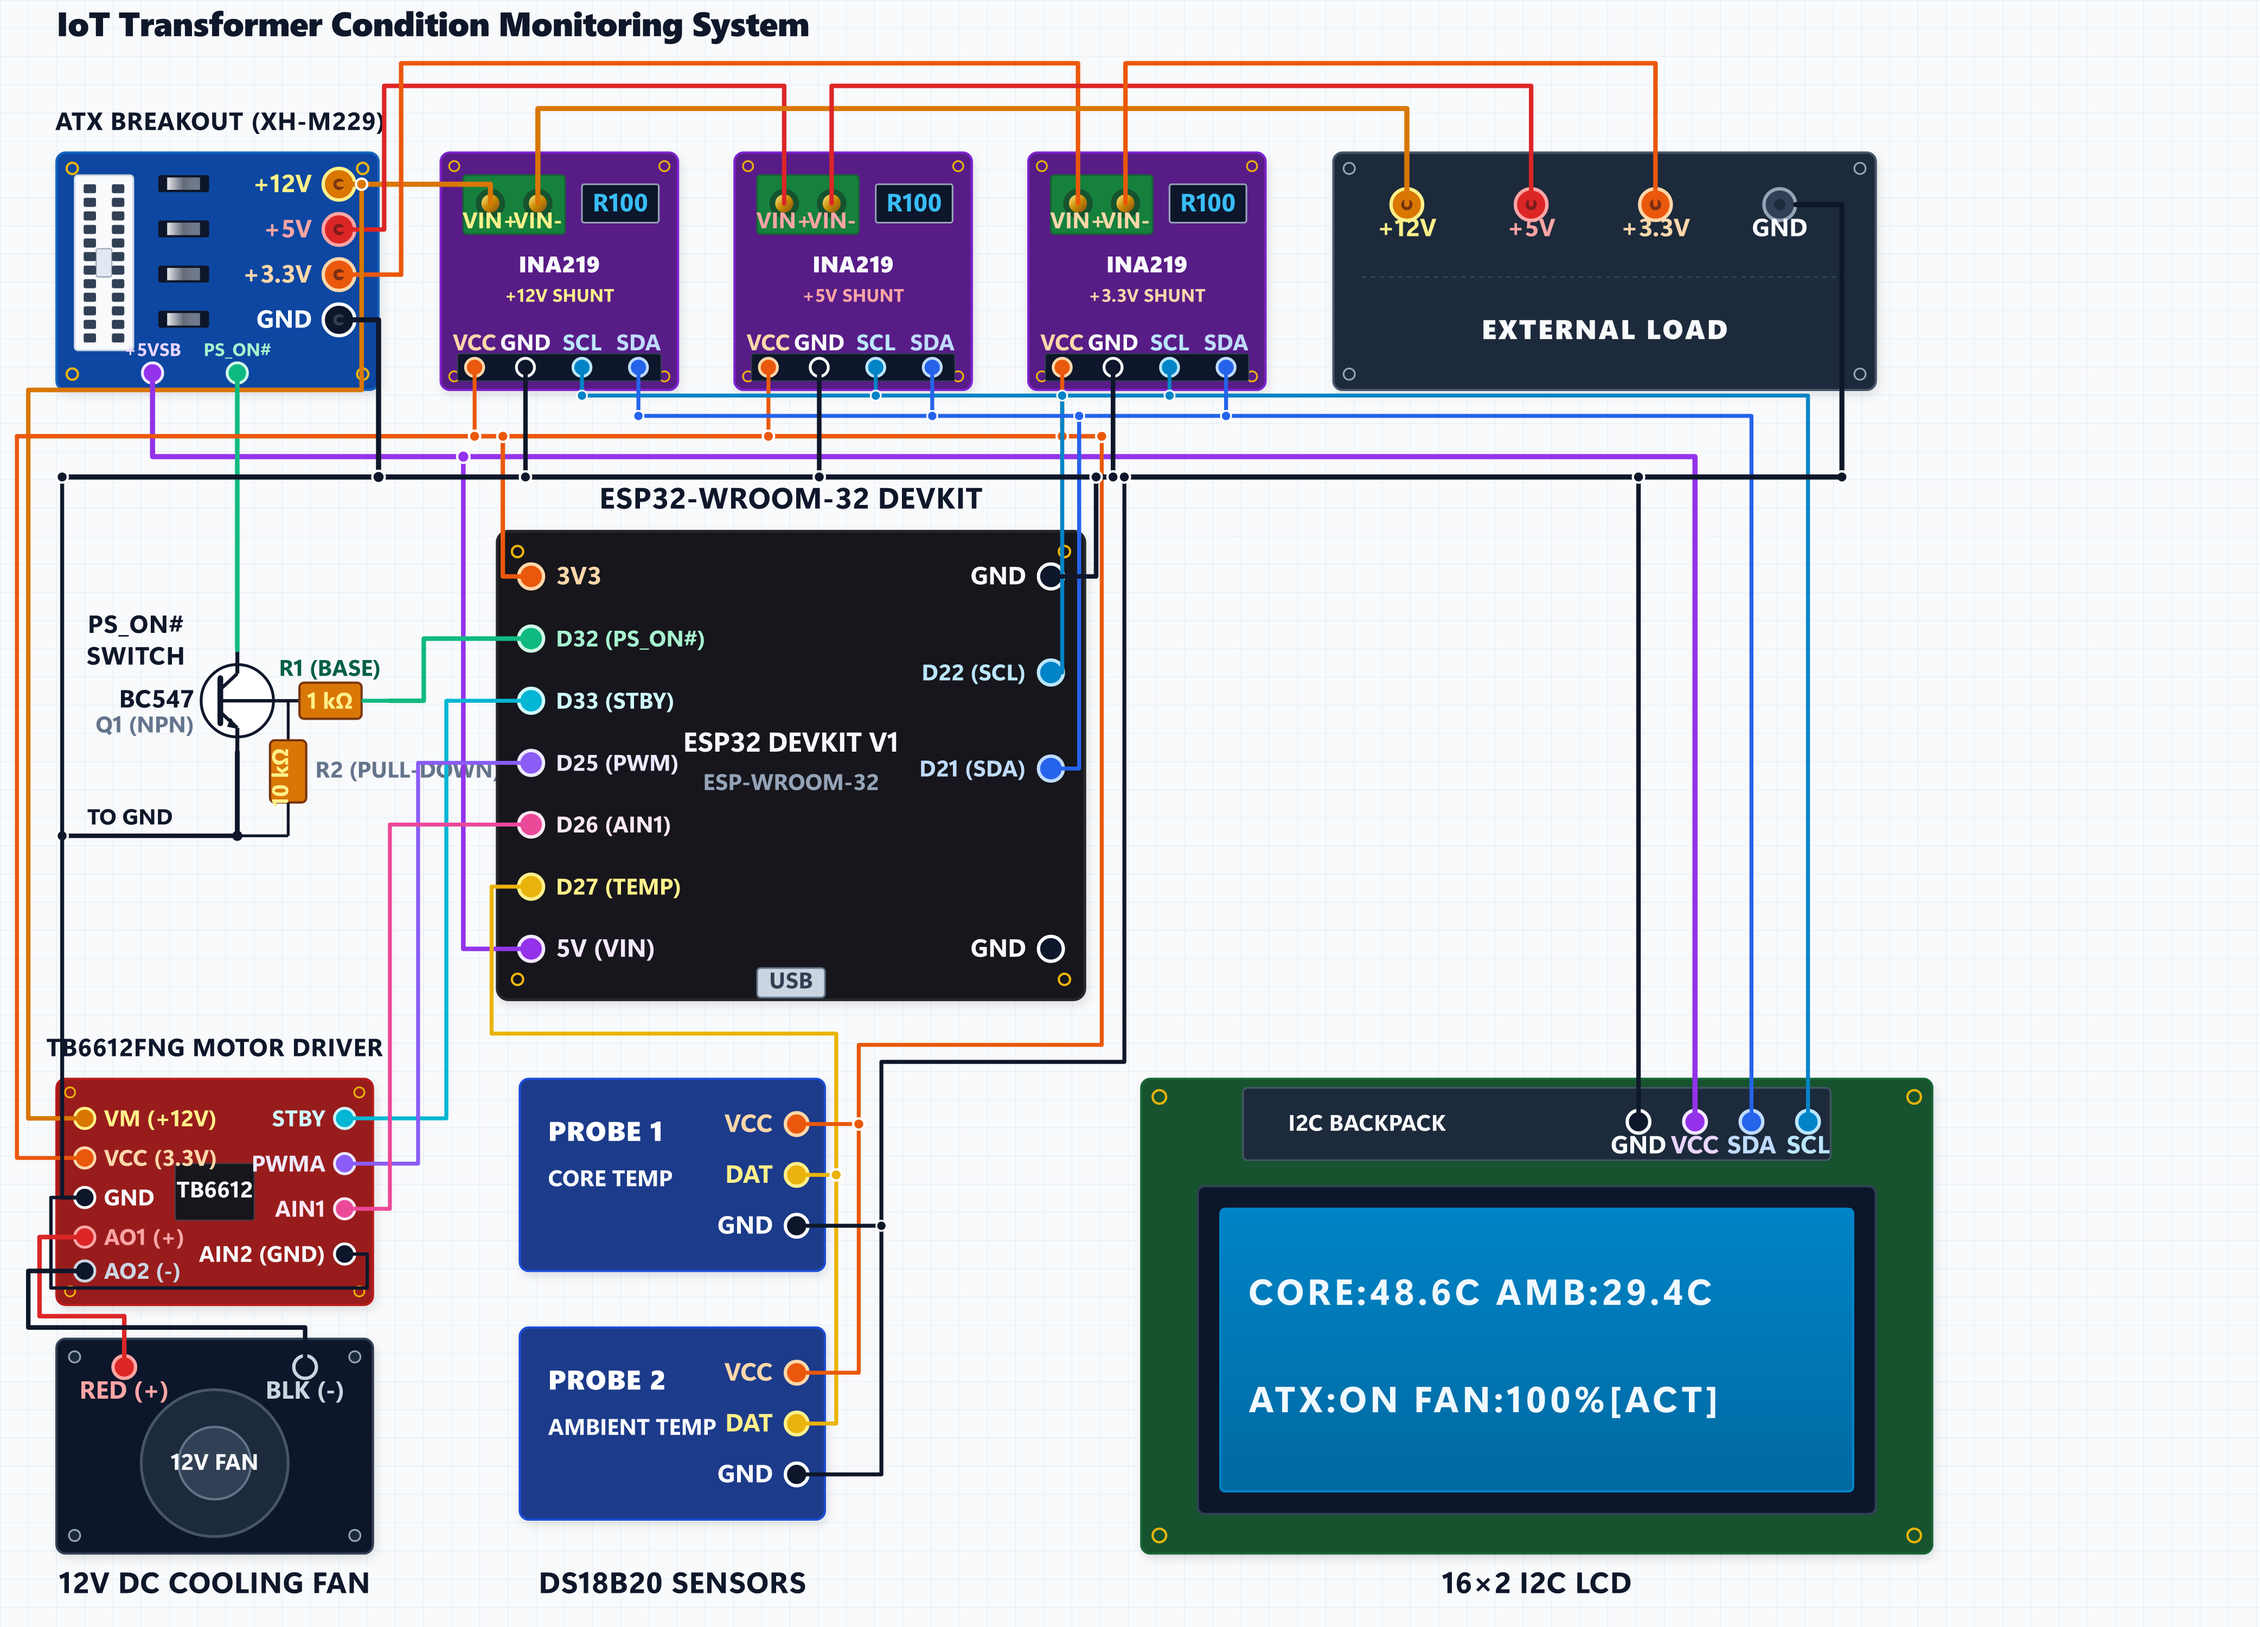
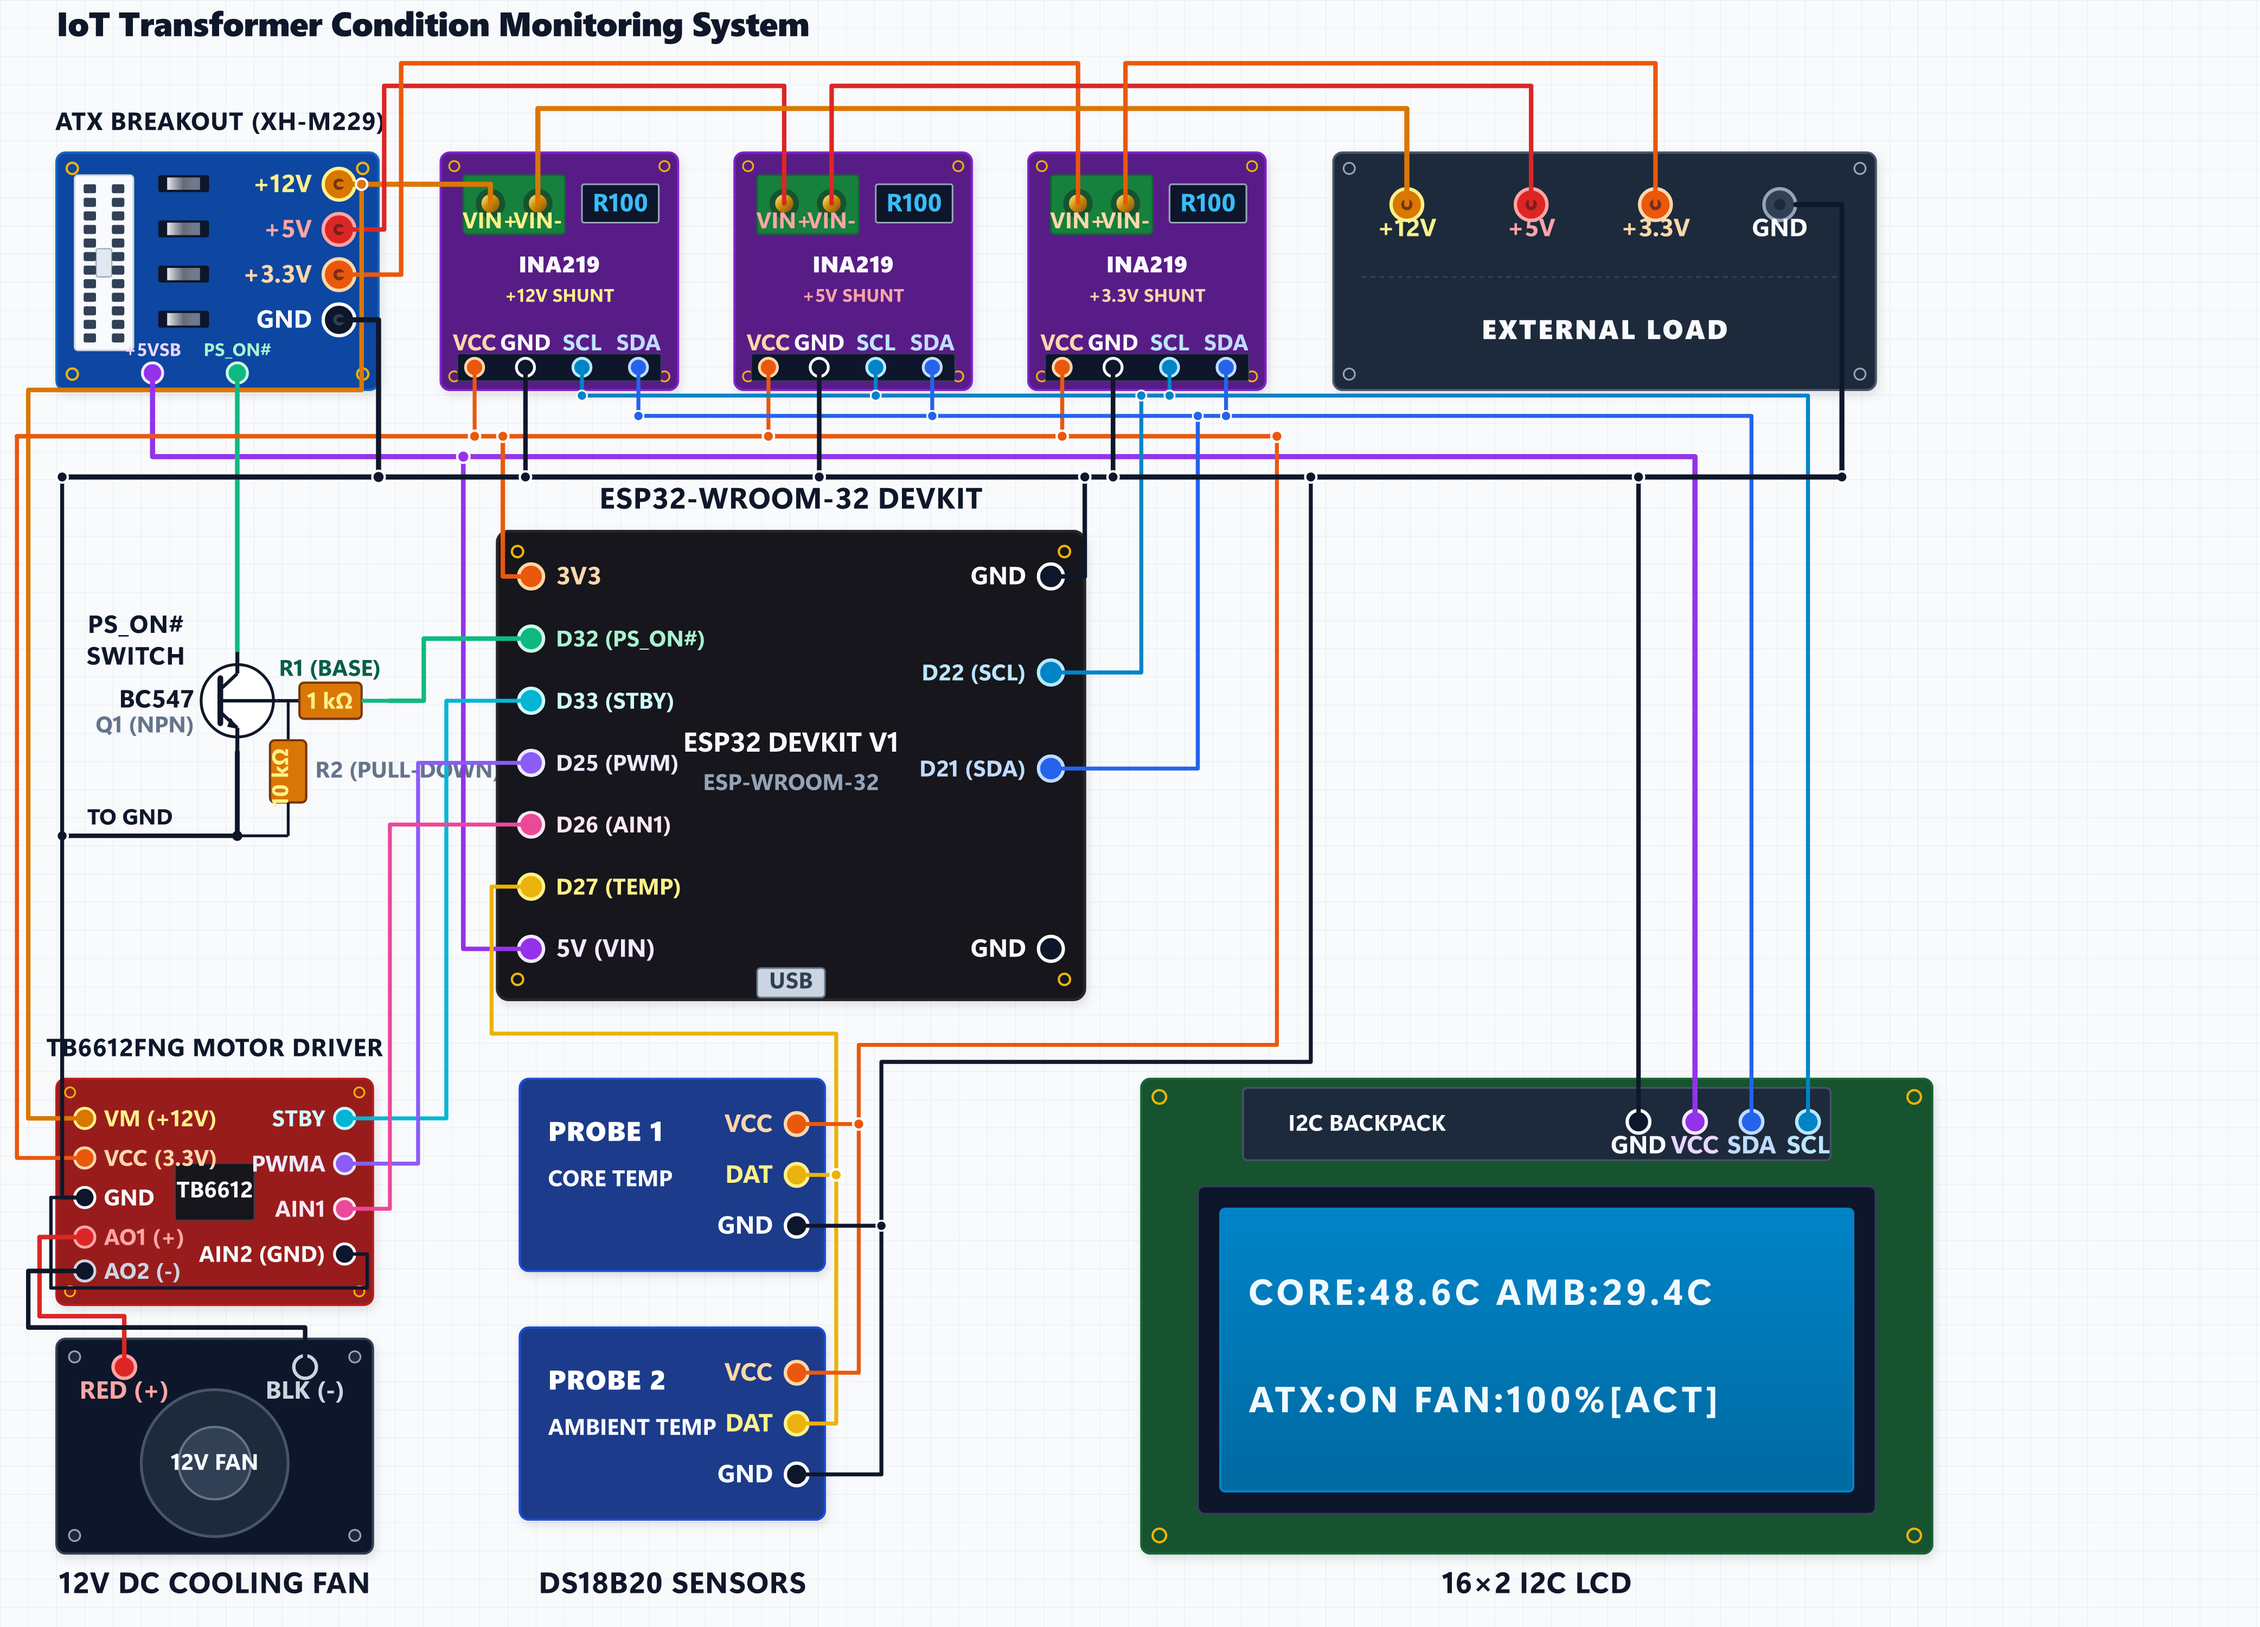
style(circuit): widen wiring corridor, de-clutter ESP32/INA219 interface, and space out ground junctions

Changed region(s): [[0.468, 0.248, 0.5616, 0.651], [0.5616, 0.31, 0.5928, 0.651]]

diff --git a/documentation/transformer_cbm_circuit_diagram.html b/documentation/transformer_cbm_circuit_diagram.html
@@ -774,9 +774,9 @@
 
   <!-- ==================== 5. 3.3V LOGIC POWER RAIL ==================== -->
   <g id="wires-3v3-logic">
-    <!-- Continuous 3.3V Logic Highway at y=386 from Left Margin (x=15) to Right Alley (x=975) -->
+    <!-- Continuous 3.3V Logic Highway at y=386 from Left Margin (x=15) to Open Right Corridor (x=1130) -->
     <path class="wire-line" stroke="#ea580c" stroke-width="4" 
-          d="M 15 386 L 975 386"/>
+          d="M 15 386 L 1130 386"/>
 
     <!-- ESP32 3V3 (470, 510) feeds into 3.3V Highway at (445, 386) -->
     <path class="wire-line" stroke="#ea580c" stroke-width="4" 
@@ -795,10 +795,10 @@
     <path class="wire-line" stroke="#ea580c" stroke-width="3.5" d="M 940 386 L 940 325"/>
     <circle cx="940" cy="386" r="5" fill="#ea580c" stroke="#ffffff" stroke-width="2"/>
 
-    <!-- Tap down Right Alley (x=975) to Dual DS18B20 VCC pins (705, 995 & 705, 1215) -->
+    <!-- Tap down Open Right Corridor (x=1130) to Dual DS18B20 VCC pins (705, 995 & 705, 1215) -->
     <path class="wire-line" stroke="#ea580c" stroke-width="3.5" 
-          d="M 975 386 L 975 925 L 760 925 L 760 995 L 705 995"/>
-    <circle cx="975" cy="386" r="5" fill="#ea580c" stroke="#ffffff" stroke-width="2"/>
+          d="M 1130 386 L 1130 925 L 760 925 L 760 995 L 705 995"/>
+    <circle cx="1130" cy="386" r="5" fill="#ea580c" stroke="#ffffff" stroke-width="2"/>
     <path class="wire-line" stroke="#ea580c" stroke-width="3.5" 
           d="M 760 995 L 760 1215 L 705 1215"/>
     <circle cx="760" cy="995" r="5" fill="#ea580c" stroke="#ffffff" stroke-width="2"/>
@@ -811,10 +811,10 @@
     <path class="wire-line" stroke="#0284c7" stroke-width="3.5" 
           d="M 515 350 L 1600 350 L 1600 993"/>
 
-    <!-- ESP32 D22 (SCL at 930, 595) connects to SCL Highway at (940, 350) -->
+    <!-- ESP32 D22 (SCL at 930, 595) connects to SCL Highway at (1010, 350) with generous spacing -->
     <path class="wire-line" stroke="#0284c7" stroke-width="3.5" 
-          d="M 930 595 L 940 595 L 940 350"/>
-    <circle cx="940" cy="350" r="4.5" fill="#0284c7" stroke="#ffffff" stroke-width="1.5"/>
+          d="M 930 595 L 1010 595 L 1010 350"/>
+    <circle cx="1010" cy="350" r="4.5" fill="#0284c7" stroke="#ffffff" stroke-width="1.5"/>
 
     <!-- Taps up to INA219 SCL pins: #1 (515, 325), #2 (775, 325), #3 (1035, 325) -->
     <path class="wire-line" stroke="#0284c7" stroke-width="3.5" d="M 515 350 L 515 325"/>
@@ -828,10 +828,10 @@
     <path class="wire-line" stroke="#2563eb" stroke-width="3.5" 
           d="M 565 368 L 1550 368 L 1550 993"/>
 
-    <!-- ESP32 D21 (SDA at 930, 680) connects to SDA Highway at (955, 368) -->
+    <!-- ESP32 D21 (SDA at 930, 680) connects to SDA Highway at (1060, 368) with generous spacing -->
     <path class="wire-line" stroke="#2563eb" stroke-width="3.5" 
-          d="M 930 680 L 955 680 L 955 368"/>
-    <circle cx="955" cy="368" r="4.5" fill="#2563eb" stroke="#ffffff" stroke-width="1.5"/>
+          d="M 930 680 L 1060 680 L 1060 368"/>
+    <circle cx="1060" cy="368" r="4.5" fill="#2563eb" stroke="#ffffff" stroke-width="1.5"/>
 
     <!-- Taps up to INA219 SDA pins: #1 (565, 325), #2 (825, 325), #3 (1085, 325) -->
     <path class="wire-line" stroke="#2563eb" stroke-width="3.5" d="M 565 368 L 565 325"/>
@@ -862,15 +862,15 @@
     <path class="wire-line" stroke="#0f172a" stroke-width="4" d="M 985 422 L 985 325"/>
     <circle cx="985" cy="422" r="5" fill="#0f172a" stroke="#ffffff" stroke-width="2"/>
 
-    <!-- ESP32 GND (930, 510) connects to Ground Highway at (970, 422) -->
+    <!-- ESP32 GND (930, 510) connects to Ground Highway at (960, 422) with 25px clearance from INA219 GND -->
     <path class="wire-line" stroke="#0f172a" stroke-width="4" 
-          d="M 930 510 L 970 510 L 970 422"/>
-    <circle cx="970" cy="422" r="5" fill="#0f172a" stroke="#ffffff" stroke-width="2"/>
+          d="M 930 510 L 960 510 L 960 422"/>
+    <circle cx="960" cy="422" r="5" fill="#0f172a" stroke="#ffffff" stroke-width="2"/>
 
-    <!-- Drops down Right Alley (x=995) to Dual DS18B20 GND (705, 1085 & 705, 1305) -->
+    <!-- Drops down Open Right Corridor (x=1160) to Dual DS18B20 GND (705, 1085 & 705, 1305) -->
     <path class="wire-line" stroke="#0f172a" stroke-width="3.5" 
-          d="M 995 422 L 995 940 L 780 940 L 780 1085 L 705 1085"/>
-    <circle cx="995" cy="422" r="5" fill="#0f172a" stroke="#ffffff" stroke-width="2"/>
+          d="M 1160 422 L 1160 940 L 780 940 L 780 1085 L 705 1085"/>
+    <circle cx="1160" cy="422" r="5" fill="#0f172a" stroke="#ffffff" stroke-width="2"/>
     <path class="wire-line" stroke="#0f172a" stroke-width="3.5" 
           d="M 780 1085 L 780 1305 L 705 1305"/>
     <circle cx="780" cy="1085" r="4.5" fill="#0f172a" stroke="#ffffff" stroke-width="1.5"/>

diff --git a/build_cirkit_designer_schematic.py b/build_cirkit_designer_schematic.py
@@ -701,9 +701,9 @@ def generate_cirkit_svg():
 
   <!-- ==================== 5. 3.3V LOGIC POWER RAIL ==================== -->
   <g id="wires-3v3-logic">
-    <!-- Continuous 3.3V Logic Highway at y=386 from Left Margin (x=15) to Right Alley (x=975) -->
+    <!-- Continuous 3.3V Logic Highway at y=386 from Left Margin (x=15) to Open Right Corridor (x=1130) -->
     <path class="wire-line" stroke="#ea580c" stroke-width="4" 
-          d="M 15 386 L 975 386"/>
+          d="M 15 386 L 1130 386"/>
 
     <!-- ESP32 3V3 (470, 510) feeds into 3.3V Highway at (445, 386) -->
     <path class="wire-line" stroke="#ea580c" stroke-width="4" 
@@ -722,10 +722,10 @@ def generate_cirkit_svg():
     <path class="wire-line" stroke="#ea580c" stroke-width="3.5" d="M 940 386 L 940 325"/>
     <circle cx="940" cy="386" r="5" fill="#ea580c" stroke="#ffffff" stroke-width="2"/>
 
-    <!-- Tap down Right Alley (x=975) to Dual DS18B20 VCC pins (705, 995 & 705, 1215) -->
+    <!-- Tap down Open Right Corridor (x=1130) to Dual DS18B20 VCC pins (705, 995 & 705, 1215) -->
     <path class="wire-line" stroke="#ea580c" stroke-width="3.5" 
-          d="M 975 386 L 975 925 L 760 925 L 760 995 L 705 995"/>
-    <circle cx="975" cy="386" r="5" fill="#ea580c" stroke="#ffffff" stroke-width="2"/>
+          d="M 1130 386 L 1130 925 L 760 925 L 760 995 L 705 995"/>
+    <circle cx="1130" cy="386" r="5" fill="#ea580c" stroke="#ffffff" stroke-width="2"/>
     <path class="wire-line" stroke="#ea580c" stroke-width="3.5" 
           d="M 760 995 L 760 1215 L 705 1215"/>
     <circle cx="760" cy="995" r="5" fill="#ea580c" stroke="#ffffff" stroke-width="2"/>
@@ -738,10 +738,10 @@ def generate_cirkit_svg():
     <path class="wire-line" stroke="#0284c7" stroke-width="3.5" 
           d="M 515 350 L 1600 350 L 1600 993"/>
 
-    <!-- ESP32 D22 (SCL at 930, 595) connects to SCL Highway at (940, 350) -->
+    <!-- ESP32 D22 (SCL at 930, 595) connects to SCL Highway at (1010, 350) with generous spacing -->
     <path class="wire-line" stroke="#0284c7" stroke-width="3.5" 
-          d="M 930 595 L 940 595 L 940 350"/>
-    <circle cx="940" cy="350" r="4.5" fill="#0284c7" stroke="#ffffff" stroke-width="1.5"/>
+          d="M 930 595 L 1010 595 L 1010 350"/>
+    <circle cx="1010" cy="350" r="4.5" fill="#0284c7" stroke="#ffffff" stroke-width="1.5"/>
 
     <!-- Taps up to INA219 SCL pins: #1 (515, 325), #2 (775, 325), #3 (1035, 325) -->
     <path class="wire-line" stroke="#0284c7" stroke-width="3.5" d="M 515 350 L 515 325"/>
@@ -755,10 +755,10 @@ def generate_cirkit_svg():
     <path class="wire-line" stroke="#2563eb" stroke-width="3.5" 
           d="M 565 368 L 1550 368 L 1550 993"/>
 
-    <!-- ESP32 D21 (SDA at 930, 680) connects to SDA Highway at (955, 368) -->
+    <!-- ESP32 D21 (SDA at 930, 680) connects to SDA Highway at (1060, 368) with generous spacing -->
     <path class="wire-line" stroke="#2563eb" stroke-width="3.5" 
-          d="M 930 680 L 955 680 L 955 368"/>
-    <circle cx="955" cy="368" r="4.5" fill="#2563eb" stroke="#ffffff" stroke-width="1.5"/>
+          d="M 930 680 L 1060 680 L 1060 368"/>
+    <circle cx="1060" cy="368" r="4.5" fill="#2563eb" stroke="#ffffff" stroke-width="1.5"/>
 
     <!-- Taps up to INA219 SDA pins: #1 (565, 325), #2 (825, 325), #3 (1085, 325) -->
     <path class="wire-line" stroke="#2563eb" stroke-width="3.5" d="M 565 368 L 565 325"/>
@@ -789,15 +789,15 @@ def generate_cirkit_svg():
     <path class="wire-line" stroke="#0f172a" stroke-width="4" d="M 985 422 L 985 325"/>
     <circle cx="985" cy="422" r="5" fill="#0f172a" stroke="#ffffff" stroke-width="2"/>
 
-    <!-- ESP32 GND (930, 510) connects to Ground Highway at (970, 422) -->
+    <!-- ESP32 GND (930, 510) connects to Ground Highway at (960, 422) with 25px clearance from INA219 GND -->
     <path class="wire-line" stroke="#0f172a" stroke-width="4" 
-          d="M 930 510 L 970 510 L 970 422"/>
-    <circle cx="970" cy="422" r="5" fill="#0f172a" stroke="#ffffff" stroke-width="2"/>
+          d="M 930 510 L 960 510 L 960 422"/>
+    <circle cx="960" cy="422" r="5" fill="#0f172a" stroke="#ffffff" stroke-width="2"/>
 
-    <!-- Drops down Right Alley (x=995) to Dual DS18B20 GND (705, 1085 & 705, 1305) -->
+    <!-- Drops down Open Right Corridor (x=1160) to Dual DS18B20 GND (705, 1085 & 705, 1305) -->
     <path class="wire-line" stroke="#0f172a" stroke-width="3.5" 
-          d="M 995 422 L 995 940 L 780 940 L 780 1085 L 705 1085"/>
-    <circle cx="995" cy="422" r="5" fill="#0f172a" stroke="#ffffff" stroke-width="2"/>
+          d="M 1160 422 L 1160 940 L 780 940 L 780 1085 L 705 1085"/>
+    <circle cx="1160" cy="422" r="5" fill="#0f172a" stroke="#ffffff" stroke-width="2"/>
     <path class="wire-line" stroke="#0f172a" stroke-width="3.5" 
           d="M 780 1085 L 780 1305 L 705 1305"/>
     <circle cx="780" cy="1085" r="4.5" fill="#0f172a" stroke="#ffffff" stroke-width="1.5"/>
